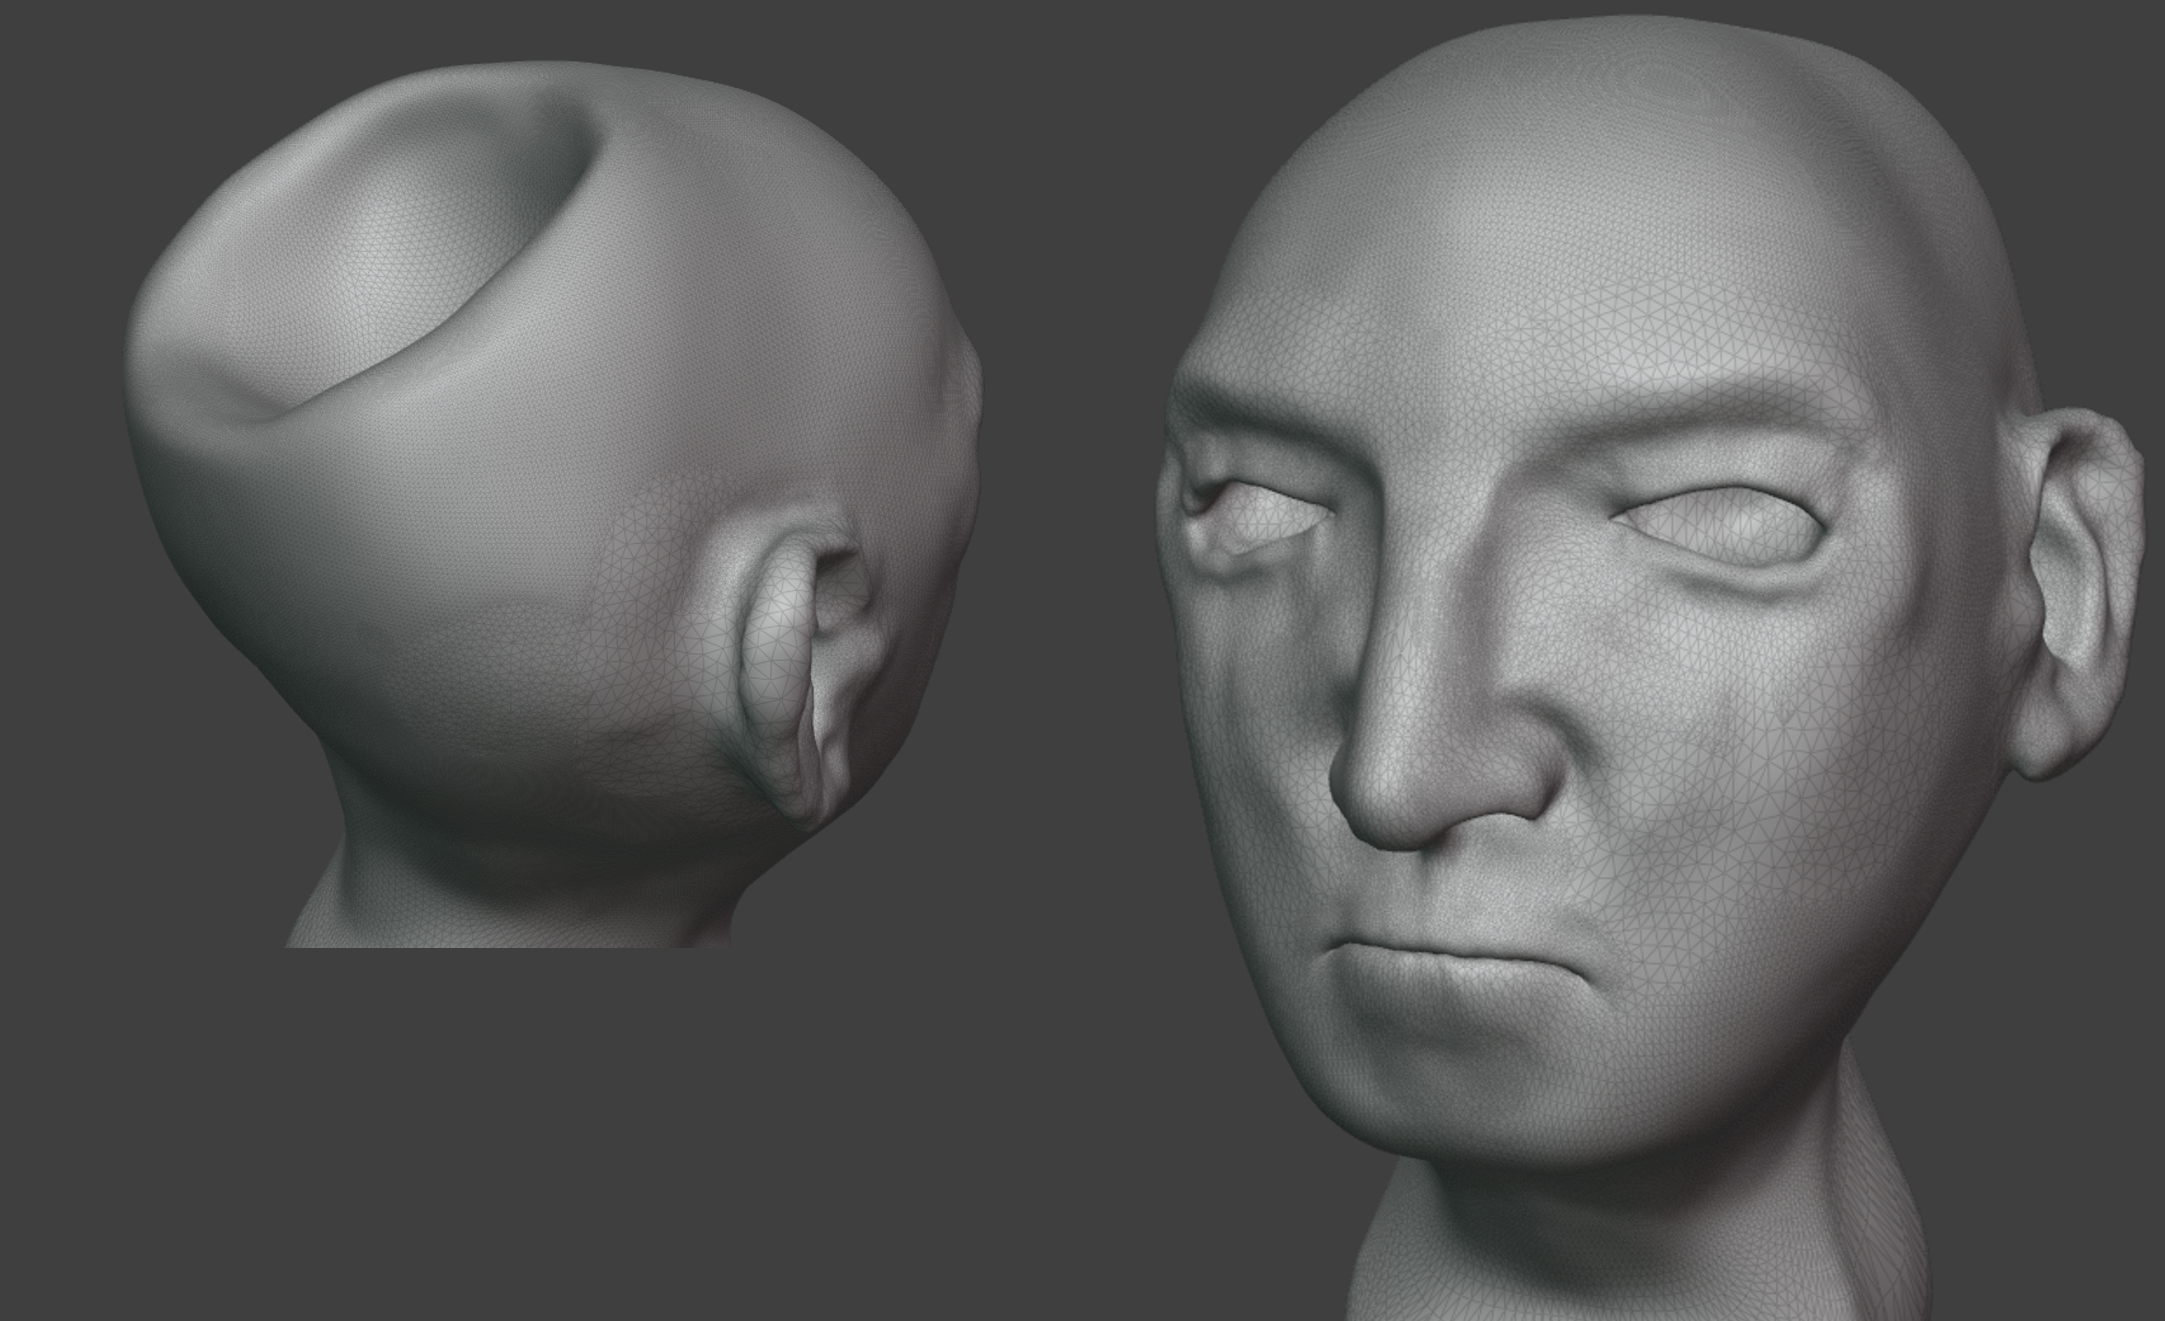
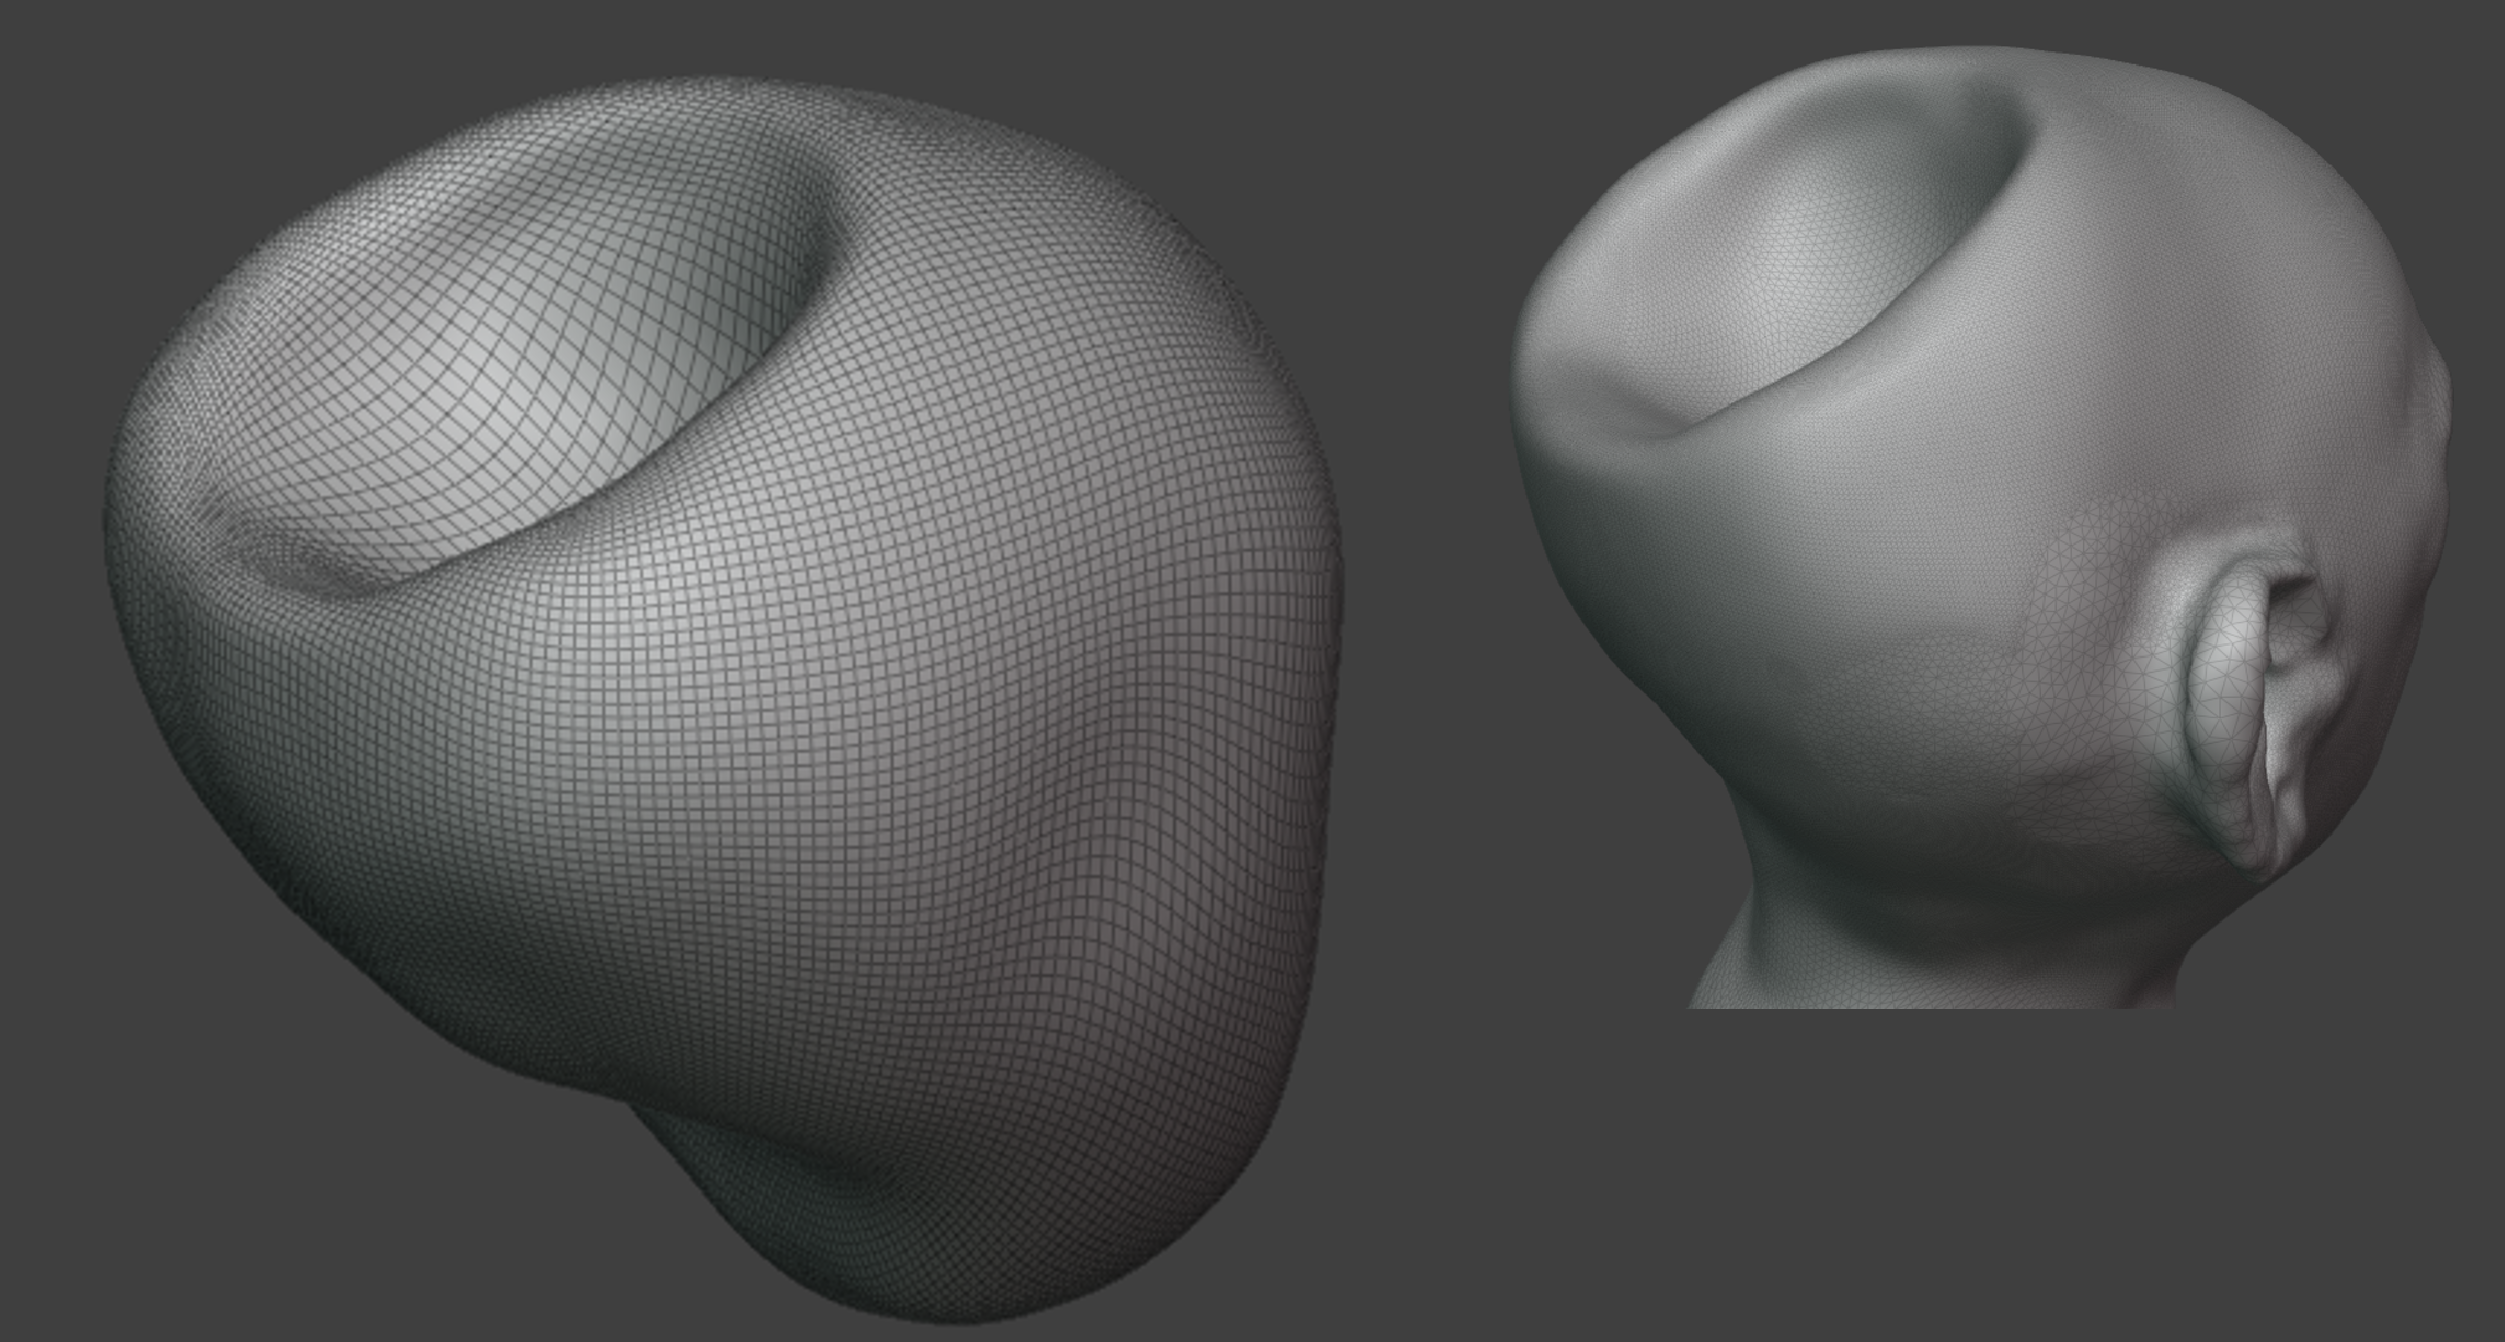
Added goblin previews and section [TODO: Description]

diff --git a/script.js b/script.js
@@ -61,6 +61,23 @@ const projectData = {
         { type: 'image', src: 'assets/Blender/Coffee Mill/9.png', label: 'Front View' },
       ]
     },
+    {
+      name: "Funky Goblin — Model a character head",
+      description: "A simple model I made for an assignment. The goal was to choose an object somewhere in the real world, gather reference images of it, and model it accurately according to the references. I used polygonal modelling for building the mesh, and very simple materials to get a similar look to the real one.",
+      tags: ["Blender", "Sculpting", "Texture painting", "Substance Painter", "Character Design"],
+      media: [
+        { type: 'image', src: 'assets/Blender/Goblin/1.png', label: 'Front View' },
+        { type: 'image', src: 'assets/Blender/Goblin/2.png', label: 'Front View' },
+        { type: 'image', src: 'assets/Blender/Goblin/3.png', label: 'Front View' },
+        { type: 'image', src: 'assets/Blender/Goblin/4.png', label: 'Front View' },
+        { type: 'image', src: 'assets/Blender/Goblin/5.png', label: 'Front View' },
+        { type: 'image', src: 'assets/Blender/Goblin/6.png', label: 'Front View' },
+        { type: 'image', src: 'assets/Blender/Goblin/7.png', label: 'Front View' },
+        { type: 'image', src: 'assets/Blender/Goblin/8.png', label: 'Front View' },
+        { type: 'image', src: 'assets/Blender/Goblin/9.png', label: 'Front View' },
+        { type: 'image', src: 'assets/Blender/Goblin/10.png', label: 'Front View' },
+      ]
+    },
   ],
   software: [
     {